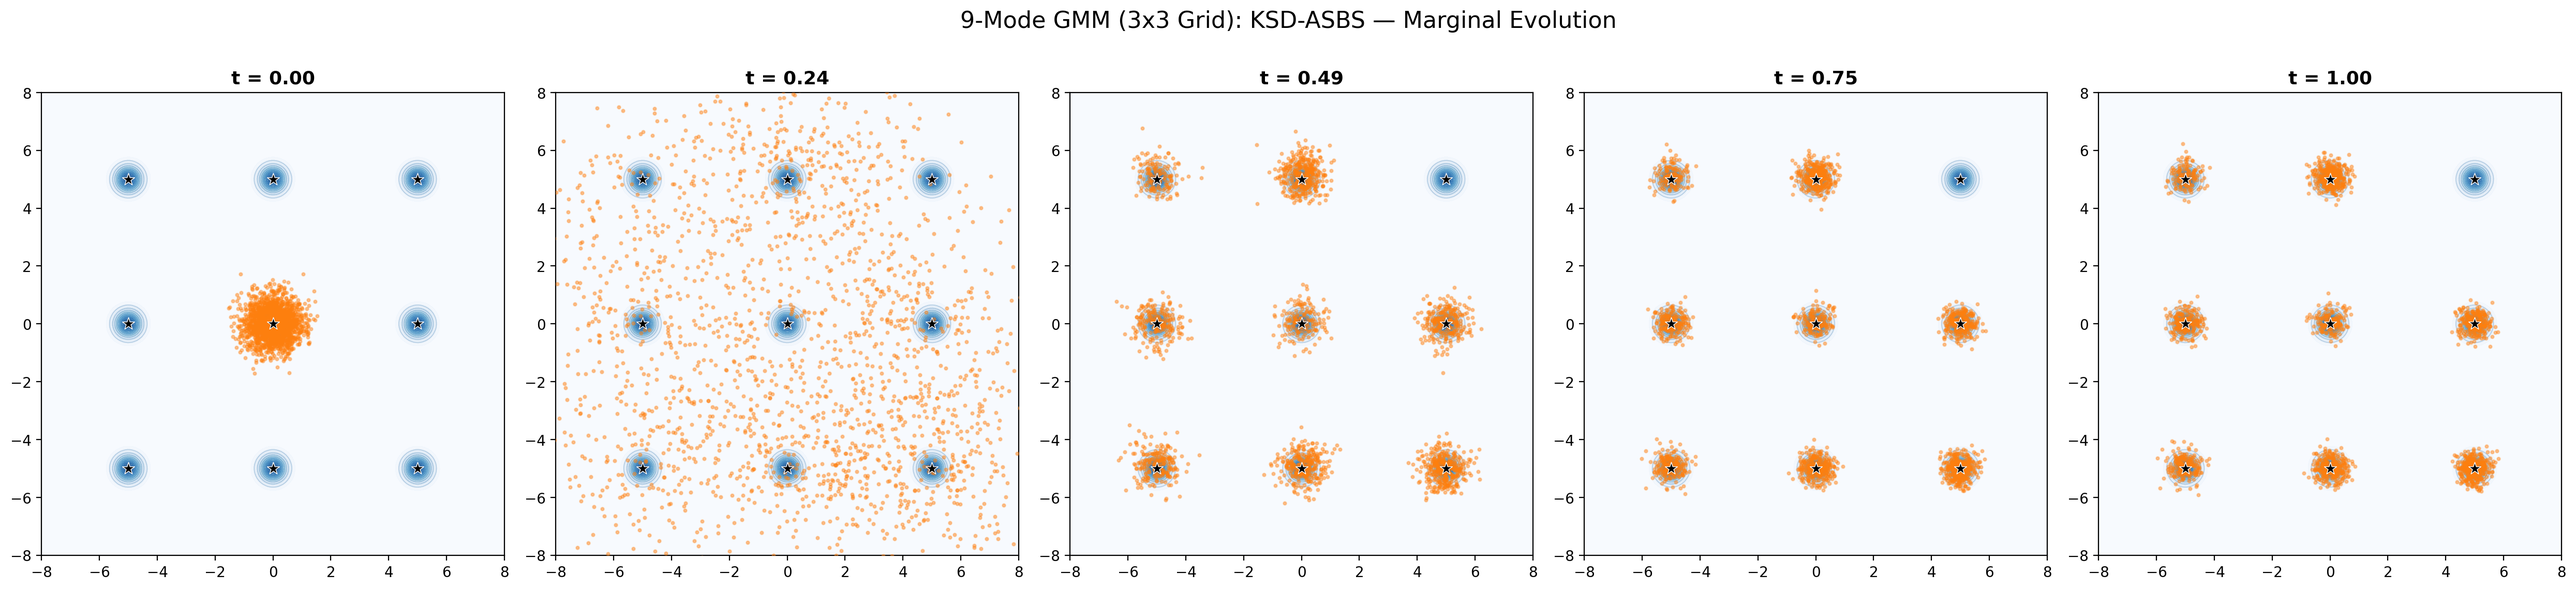
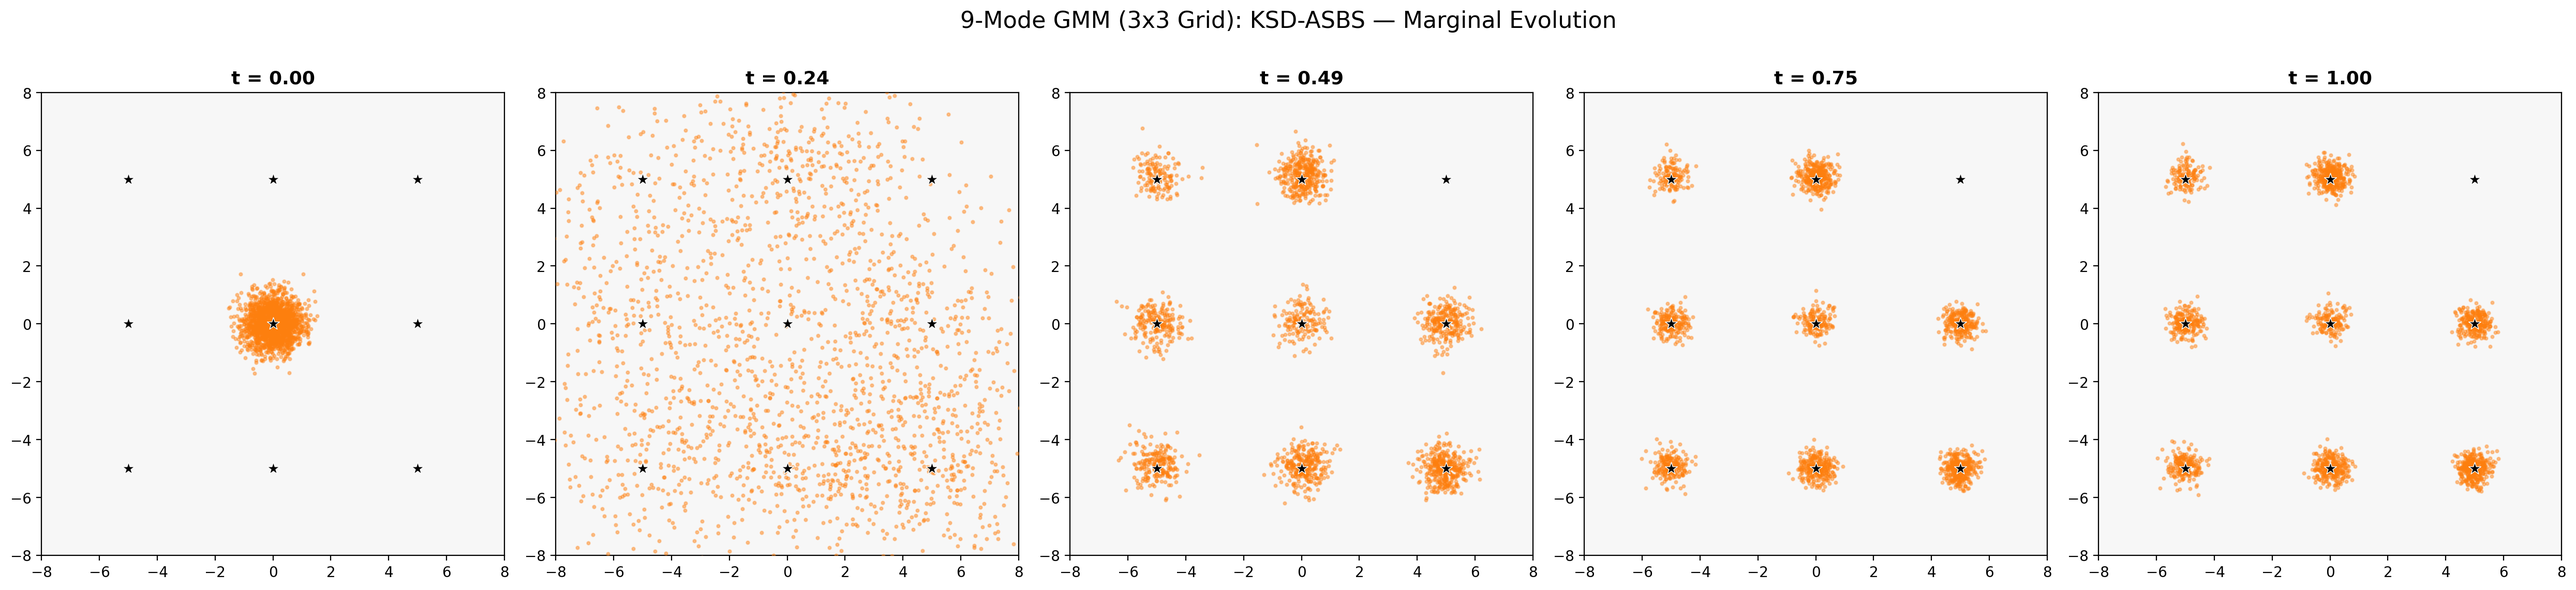
Remove ground truth overlay from marginal evolution plots
Marginal evolution now shows only sample scatter on clean background.
Terminal distribution unchanged (3-panel: GT, ASBS, KSD-ASBS, no overlay).

diff --git a/scripts/eval_2d_all.py b/scripts/eval_2d_all.py
@@ -215,19 +215,17 @@ def plot_marginal_evolution(
 
     fig, axes = plt.subplots(1, n_snapshots, figsize=(5 * n_snapshots, 5.5))
 
+    color = '#d62728' if method_name == 'ASBS' else '#ff7f0e'
+
     for panel_idx, state_idx in enumerate(indices):
         ax = axes[panel_idx]
         t_val = ts[state_idx].item()
         samples = states[state_idx].cpu().numpy()
 
-        # Background: target density contours
-        plot_density_contours(ax, energy, xlim, ylim)
+        # Scatter samples only (no ground truth overlay)
+        ax.scatter(samples[:, 0], samples[:, 1], s=4, c=color, alpha=0.4, zorder=5)
 
-        # Scatter samples
-        ax.scatter(samples[:, 0], samples[:, 1], s=4, c='#d62728' if 'ASBS' == method_name else '#ff7f0e',
-                   alpha=0.4, zorder=5)
-
-        # Mode centers
+        # Mode centers for reference
         c = centers.cpu().numpy()
         ax.scatter(c[:, 0], c[:, 1], marker='*', s=80, c='black',
                    zorder=10, edgecolors='white', linewidths=0.5)
@@ -235,6 +233,7 @@ def plot_marginal_evolution(
         ax.set_xlim(xlim)
         ax.set_ylim(ylim)
         ax.set_aspect('equal')
+        ax.set_facecolor('#f7f7f7')
         ax.set_title(f't = {t_val:.2f}', fontsize=13, fontweight='bold')
 
     fig.suptitle(f'{benchmark_name}: {method_name} — Marginal Evolution', fontsize=16, y=1.02)

diff --git a/evaluation/2d_result.md b/evaluation/2d_result.md
@@ -1,6 +1,6 @@
 # 2D Visualization Benchmark Results
 
-Generated: 2026-04-07 06:04:38 KST
+Generated: 2026-04-07 06:09:22 KST
 
 ---
 
